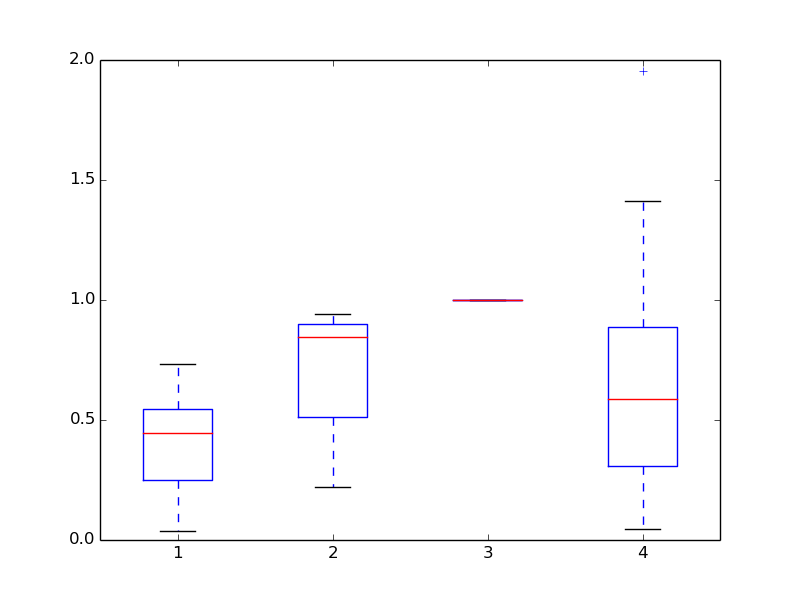
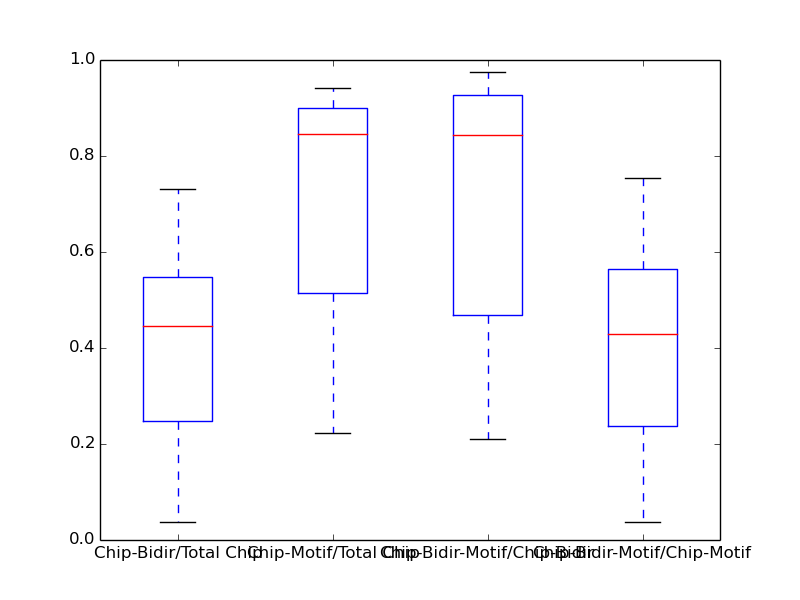
updates

diff --git a/src/VennGeneratorv2.py b/src/VennGeneratorv2.py
@@ -113,6 +113,6 @@ if __name__ == "__main__":
     F = plt.figure()
     ax = plt.axes()
     plt.boxplot(list1)
-    ax.set_xticklabels(['Chip-Bidir/Total Chip', 'Chip-Motif/Total Chip', 'Chip-Bidir-Motif/Chip-Bidir','Chip-Bidir-Motif/Chip-Motif'])
+    ax.set_xticklabels(['Chip-Bid/Chip', 'Chip-Mot/Chip', 'Chip-Bid-Mot/Chip-Bid','Chip-Bid-Mot/Chip-Mot'])
     plt.savefig(chipdir + '/overlap_boxplot.png')
     
